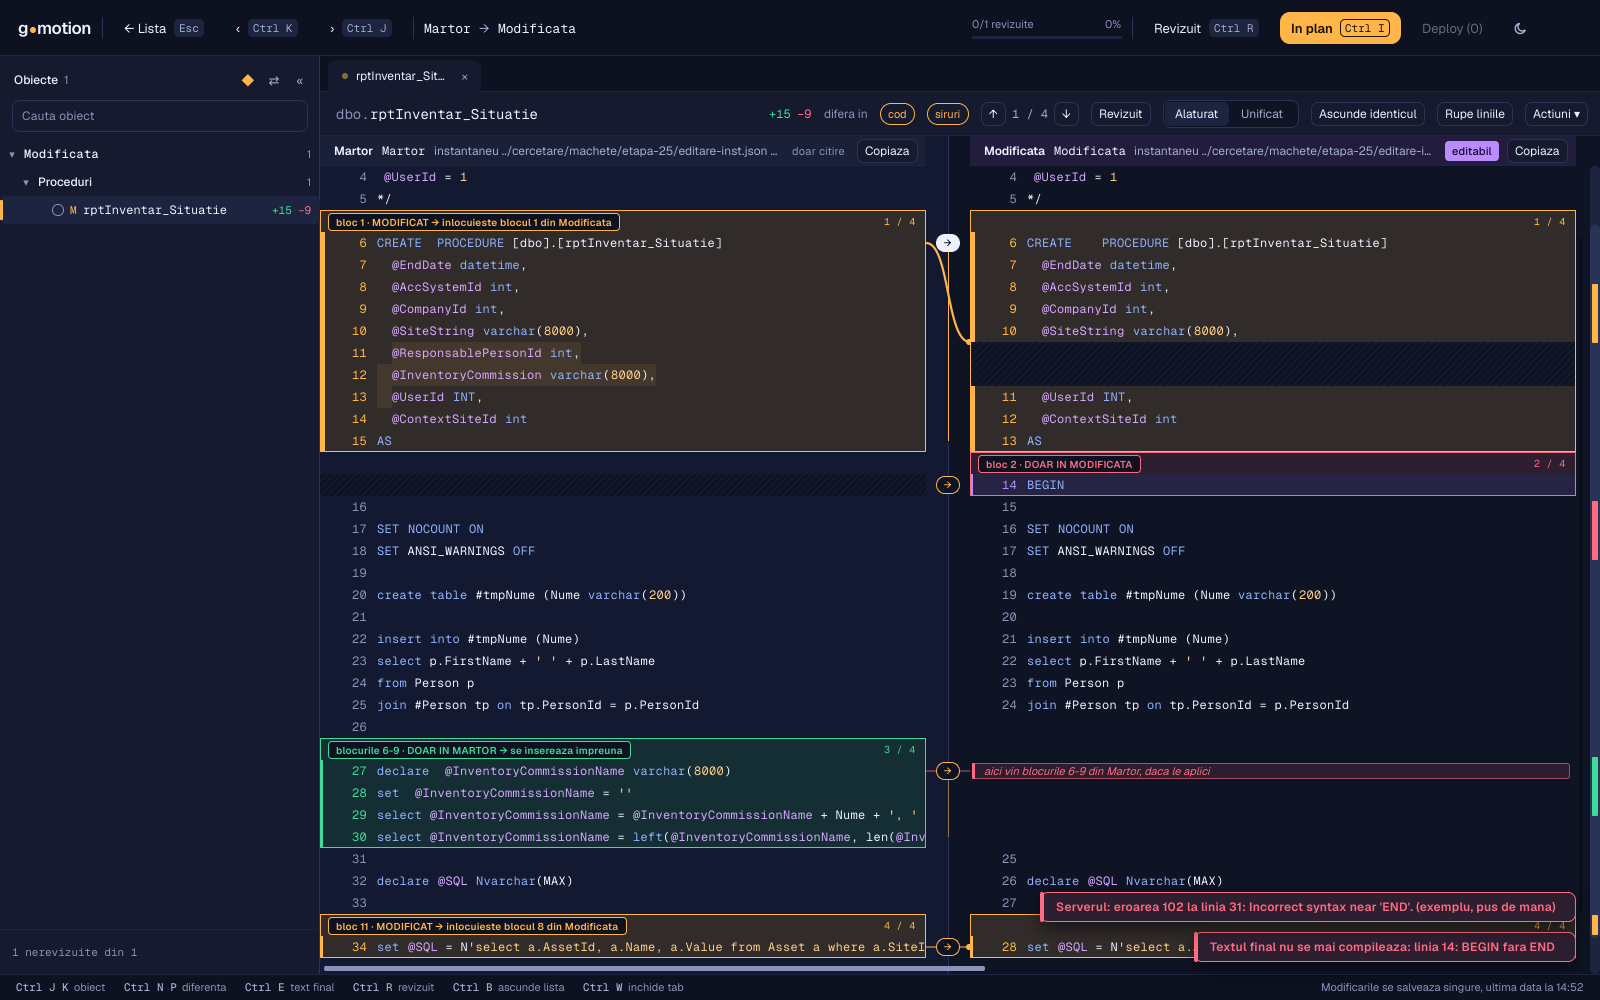
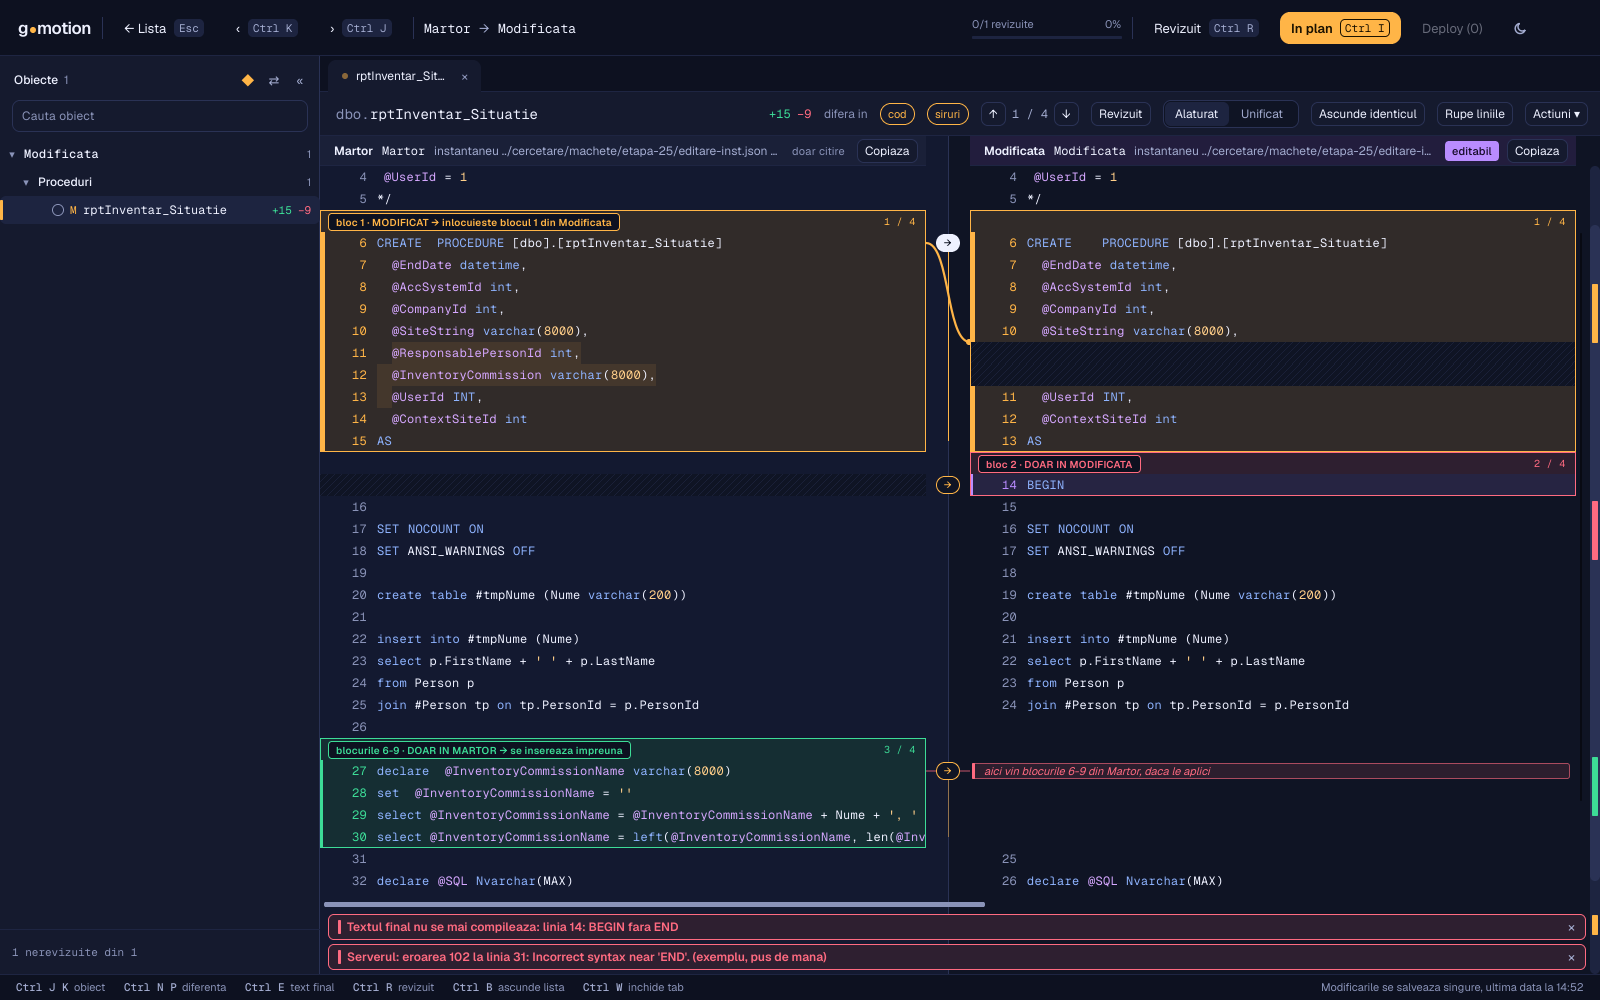
Editorul: mesajele despre textul final in banda lor, cu ×
Mihai: mesajele sa nu stea peste cod si sa nu ramana blocate. Acum stau
sub panouri, unul sub altul (lista face loc), fiecare cu ×. Raspunsul
serverului pleaca si la alt obiect sau alt text; cel de structura,
ascuns cu ×, revine doar daca problema se schimba.

Claude-Session: https://claude.ai/code/session_01FH9EWSmQZKRQ2MAnDCiZqN

Changed region(s): [[0.1875, 0.868, 1.0, 0.992]]

diff --git a/rust/fereastra/src/lib.rs b/rust/fereastra/src/lib.rs
@@ -3674,6 +3674,28 @@ mod teste {
         );
     }
 
+    /// Mesajul de structura inchis cu × nu revine pentru acelasi text, dar
+    /// revine cand problema se schimba; × pe raspunsul serverului cere
+    /// inchiderea lui (aplicatia il sterge).
+    #[test]
+    fn mesajele_se_inchid_cu_x_si_nu_raman_blocate() {
+        use std::cell::Cell;
+        let ui = fereastra();
+        ui.set_probleme_structura("linia 14: BEGIN fara END".into());
+        assert!(ui.get_arata_probleme());
+        ui.set_probleme_ascunse(ui.get_probleme_structura());
+        assert!(!ui.get_arata_probleme(), "× il ascunde");
+        ui.set_probleme_structura("linia 20: BEGIN fara END".into());
+        assert!(ui.get_arata_probleme(), "alta problema, se arata din nou");
+        ui.set_probleme_structura("".into());
+        assert!(!ui.get_arata_probleme(), "textul reparat: dispare");
+        let inchis = std::rc::Rc::new(Cell::new(false));
+        let i = inchis.clone();
+        ui.on_inchide_verificarea(move || i.set(true));
+        ui.invoke_inchide_verificarea();
+        assert!(inchis.get());
+    }
+
     #[test]
     fn problemele_de_structura_se_spun_cu_linia_in_ambele_limbi() {
         let p = gmotion_core::structura::verifica("BEGIN\nSELECT (1\nGO");

diff --git a/rust/app/src/main.rs b/rust/app/src/main.rs
@@ -873,6 +873,7 @@ fn ruleaza() -> Result<(), String> {
         pe_stare!(deploy_ui.on_verifica_baza(|st| st.porneste_garda()));
         // textul final la SQL Server, fara efecte (etapa 26)
         pe_stare!(editor_ui.on_verifica_pe_server(|st| st.verifica_pe_server()));
+        pe_stare!(editor_ui.on_inchide_verificarea(|st| st.rezultat_verificare = None));
         // dialogul nativ (etapa 25): unde se scrie, si folderul deschis dupa
         pe_stare!(deploy_ui.on_alege_folderul(|st| {
             if let Some(d) = rfd::FileDialog::new().pick_folder() {
